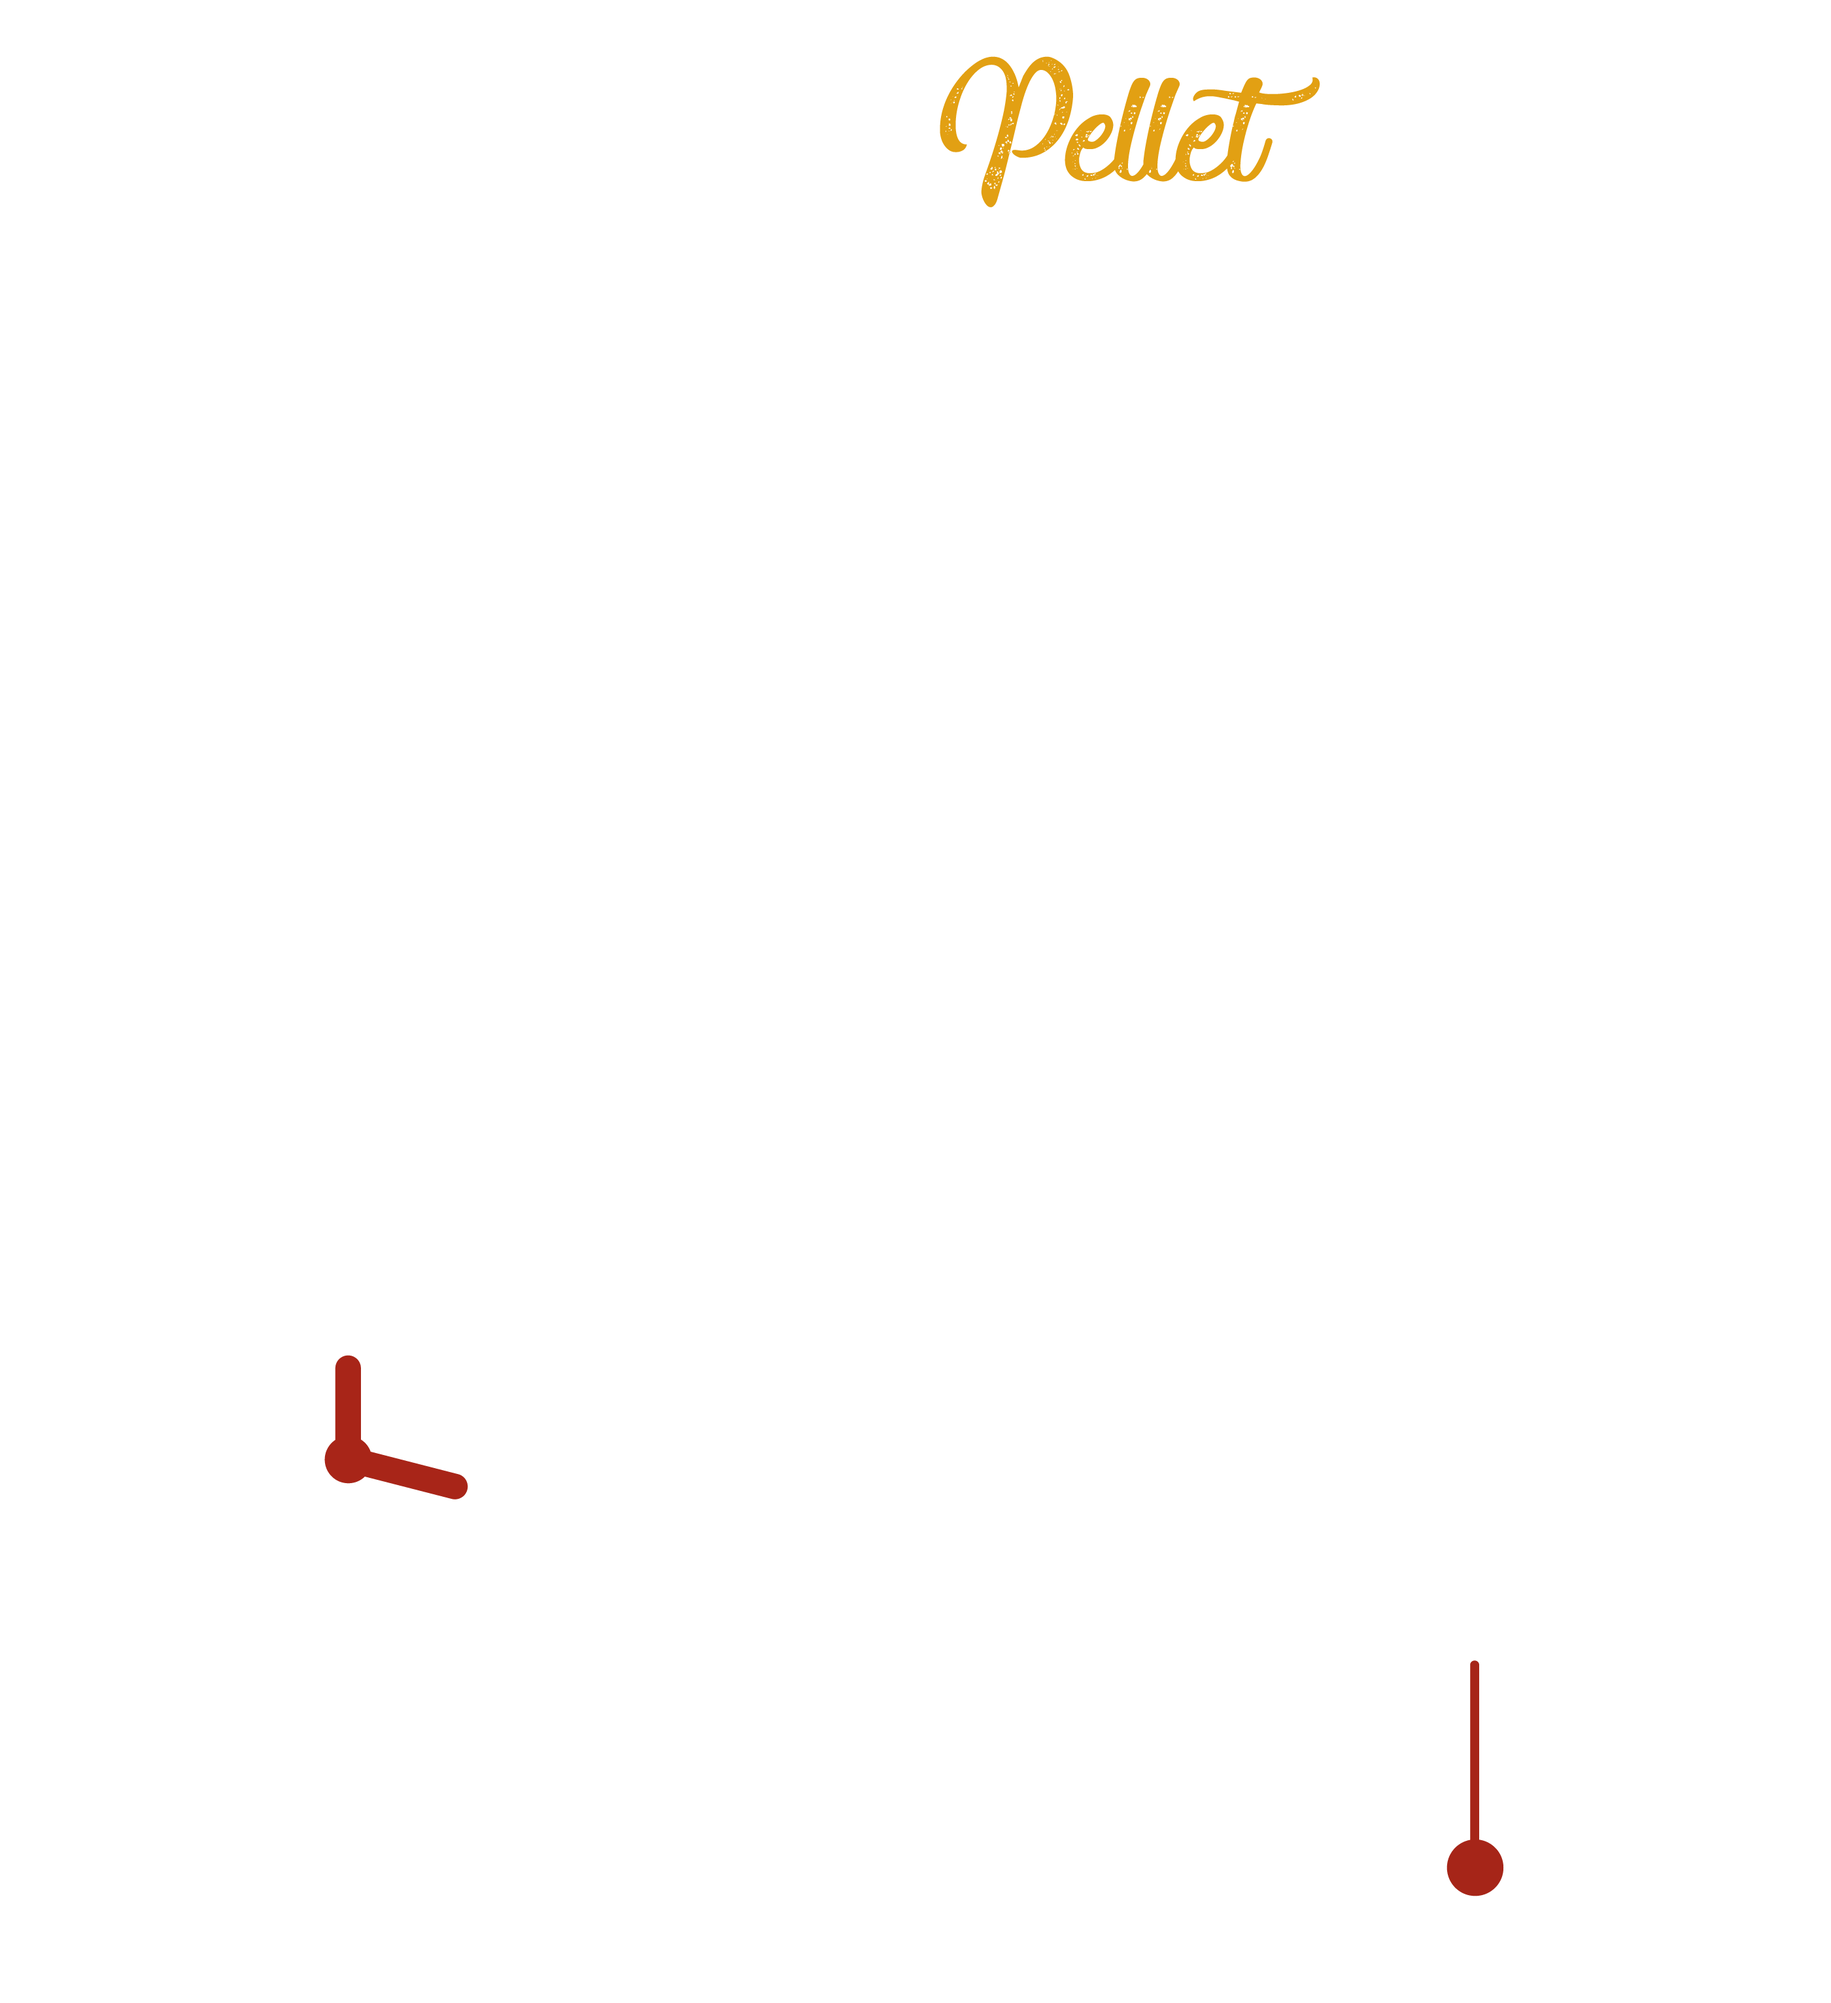
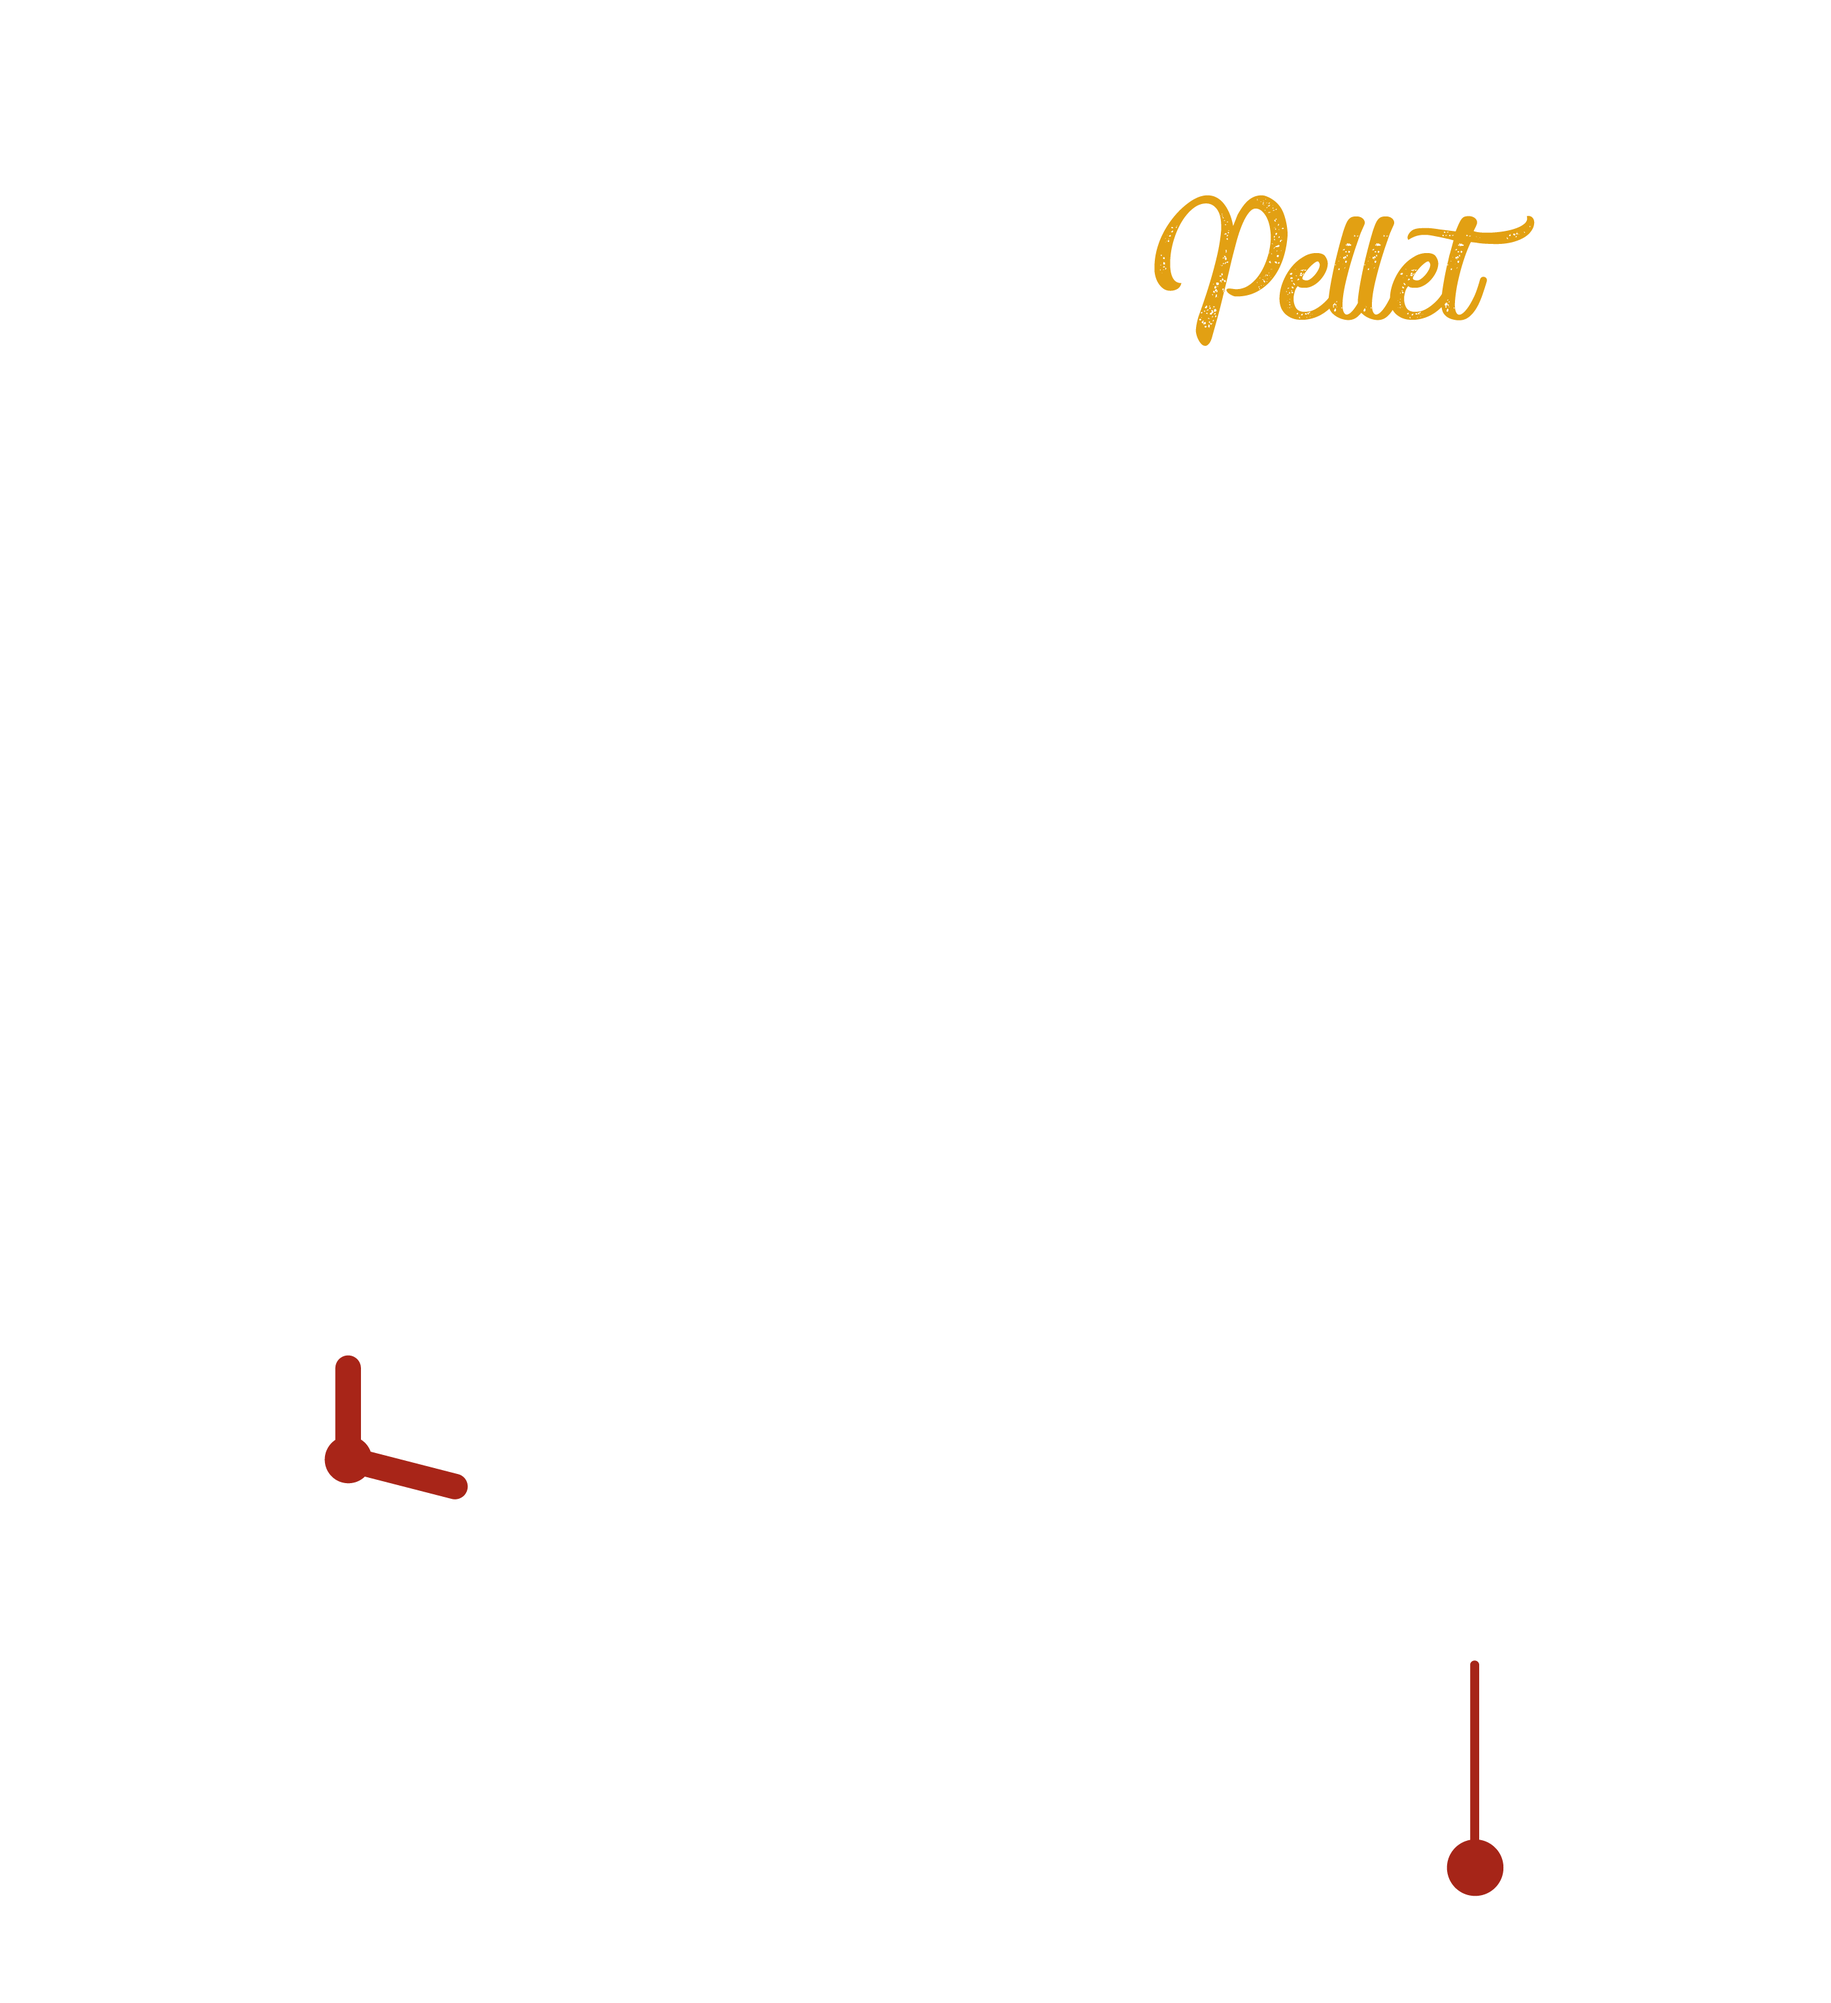
Ajustes image pop y duritos

Changed region(s): [[0.4971, 0.031, 0.8389, 0.1861]]

diff --git a/css/responsive.css b/css/responsive.css
@@ -31,8 +31,8 @@
         bottom: -10px;
         left: 50%;
     }
-    
-    .d-info-cat-cent .d-title-cat .t1:after{
+
+    .d-info-cat-cent .d-title-cat .t1:after {
         border-bottom: none;
     }
 
@@ -85,15 +85,24 @@
 
     .d-image-frito .image-pop {
         visibility: visible;
-        width: 48% !important;
-        margin-top: -330px !important;
+        width: 53% !important;
+        margin-top: -350px !important;
         margin-left: 0px;
     }
+
+    .duritos2 .d-image-pellet .image-pop {
+        margin-left: -22px;
+        width: 100%!important;
+    }
     
-    .d-image-frito.duritos2 .image-pop {
+    .duritos2 .d-image-frito > .frito{
+        width: 75%!important;
+    }
+
+    .duritos2 .d-image-frito .image-pop {
         visibility: visible;
-        width: 88% !important;
-        margin-top: -380px !important;
+        width: 100% !important;
+        margin-top: -440px !important;
         margin-left: 0px;
     }
 
@@ -165,8 +174,8 @@
         padding-right: 10px;
         margin-top: 50px;
     }
-    
-    .d-title-filtro{
+
+    .d-title-filtro {
         margin-right: 0px;
     }
 
@@ -228,7 +237,7 @@
         visibility: visible;
         width: 100%;
         margin-top: -530px;
-        margin-left: 0px;
+        margin-left: -10px;
     }
 
     .d-image-pellet:hover > .image-pop {
@@ -254,7 +263,7 @@
         visibility: visible;
         width: 36%;
         margin-top: -580px;
-        margin-left: 0px;
+        margin-left: 20px;
     }
 
     .d-image-frito:hover > .image-pop {

diff --git a/css/style.css b/css/style.css
@@ -477,24 +477,31 @@ body.body-bg {
 }
 
 .btn-ficha {
-    background-color: rgba(255, 255, 255, .1);
-    color: rgba(255, 255, 255, .8);
+    background-color: #FFFFFF;
+    color: #000000;
     font-family: "Roboto";
     width: 100%;
-    padding-top: 8px;
-    padding-bottom: 8px;
+    padding-top: 10px;
+    padding-bottom: 10px;
     font-size: 14px;
-    border-radius: 5px;
+    border-radius: 100px;
+    font-weight: 500;
+    margin-top: 10px;
 }
 
 .btn-ficha:hover {
-    color: #FFFFFF;
+    color: #000000;
 }
 
 .btn-ficha > i {
     margin-right: 10px;
-    font-size: 16px;
+    font-size: 18px;
     transform: translateY(1px);
+    transition: .3s;
+}
+
+.btn-ficha:hover > i{
+    transform: translateY(4px);
 }
 
 .row-icons-ingredientes {
